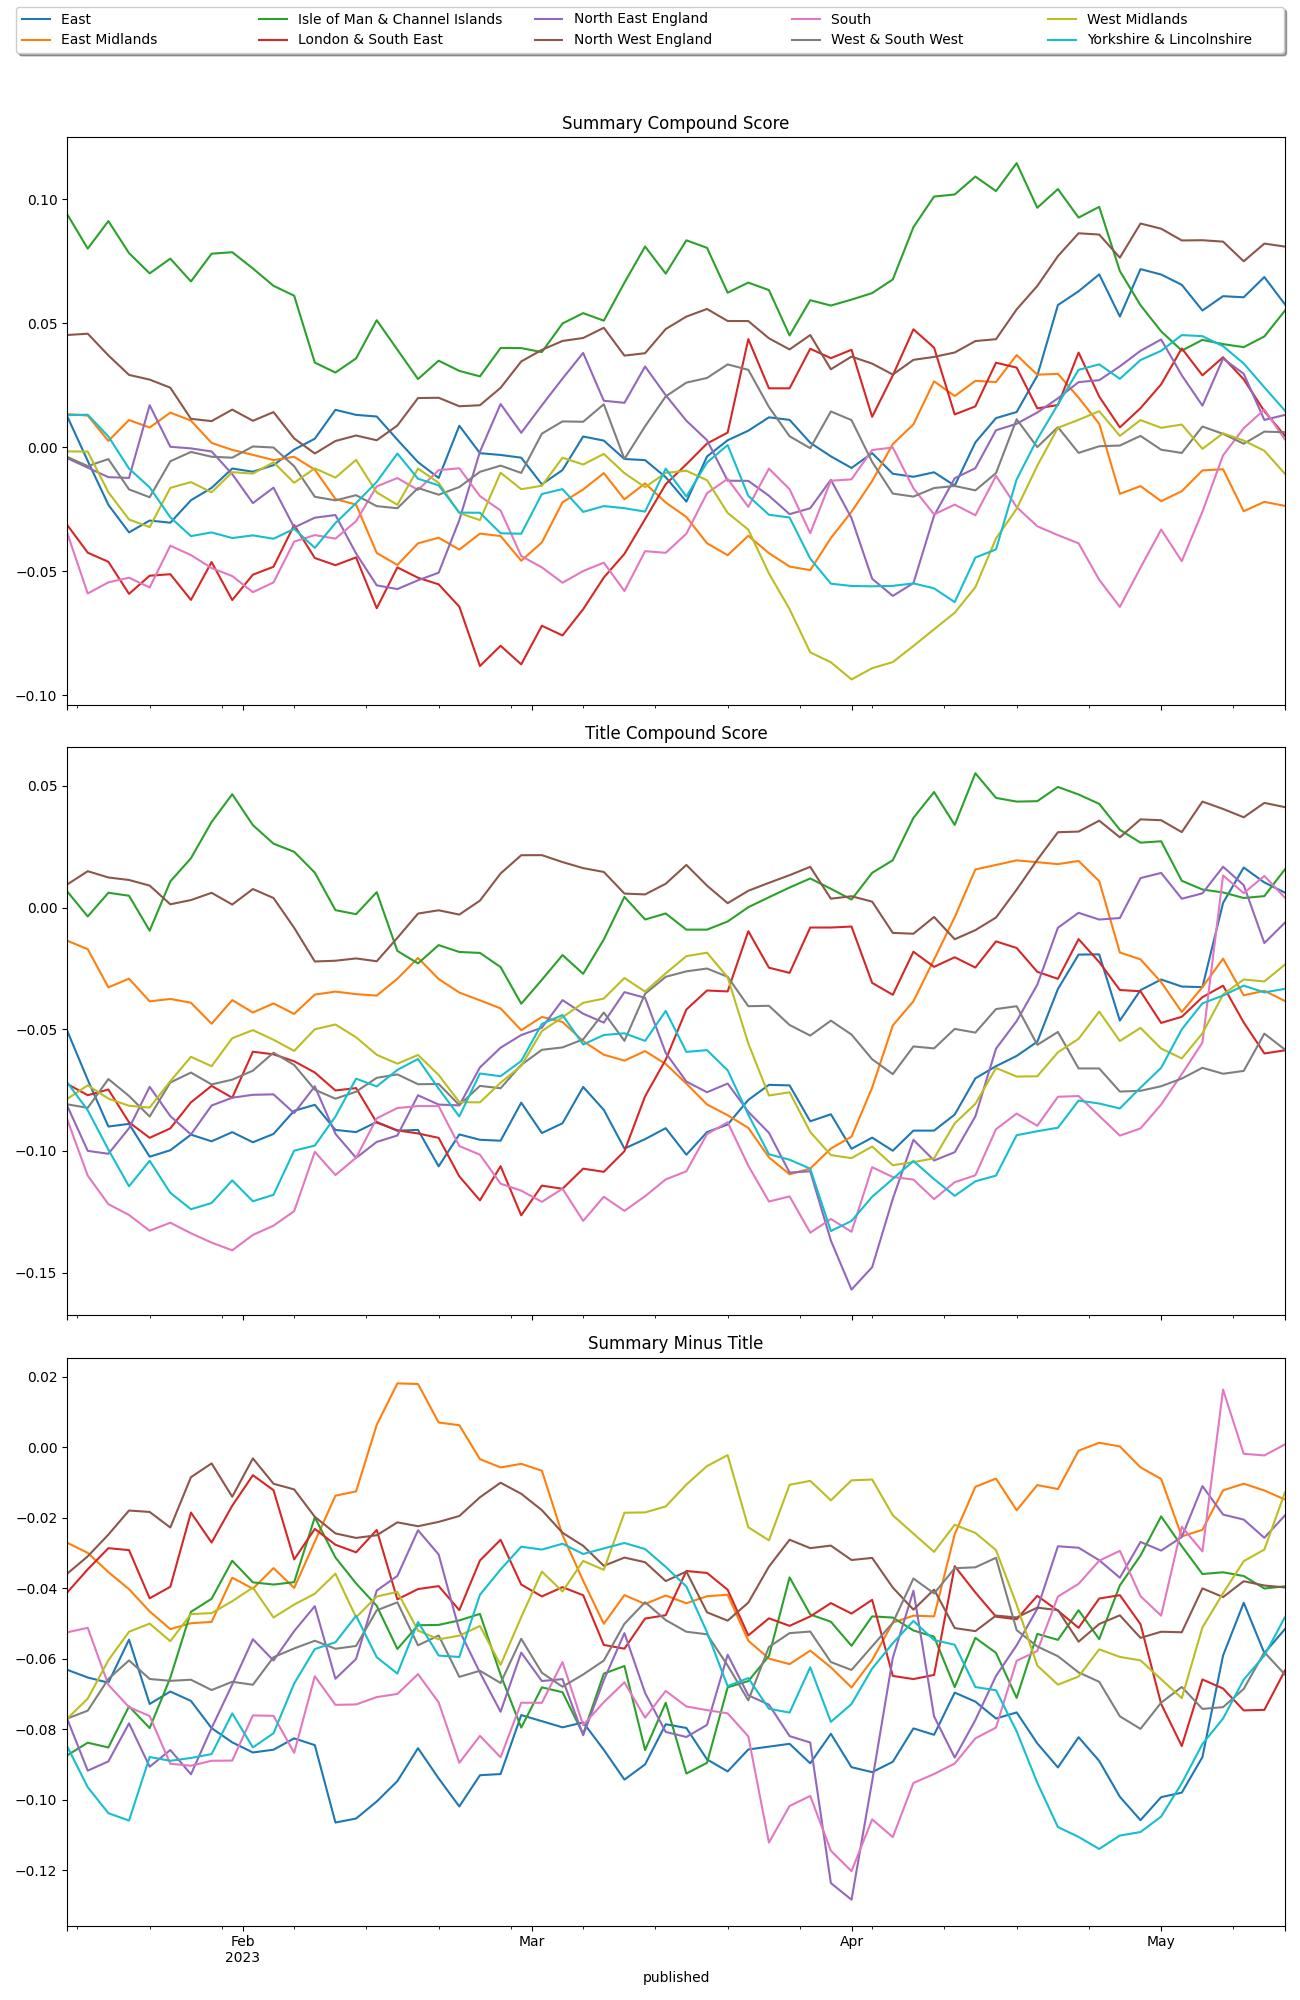
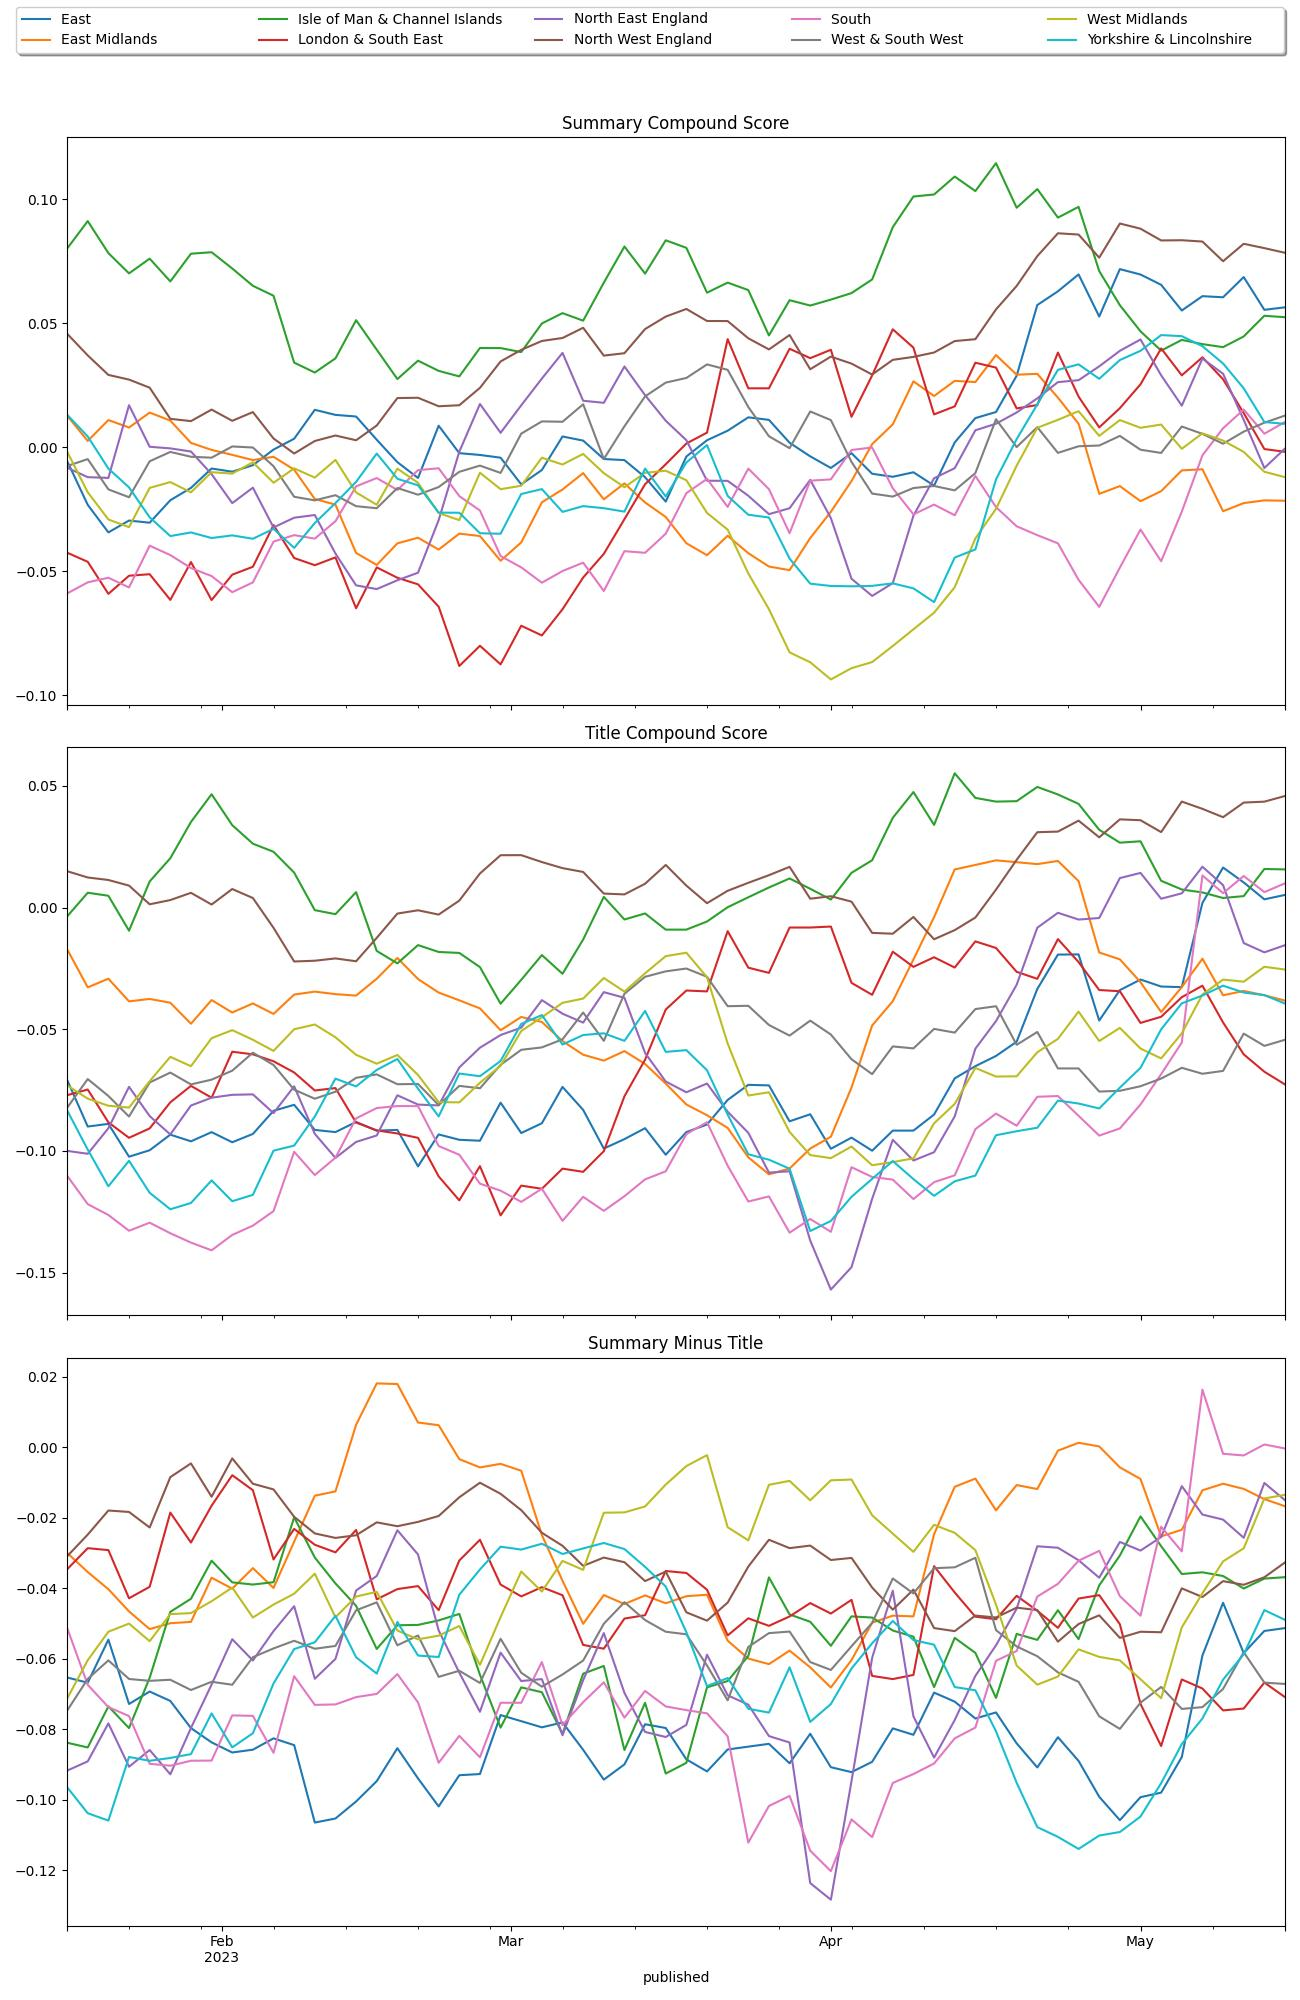
at 2023-05-15 10:43 ran: [Stage: 'complete-basic_report']

diff --git a/reports/complete/latest.md b/reports/complete/latest.md
@@ -1,12 +1,12 @@
-| region                        | published                  | summary                                                                                                                                | title                                                         | url                                      |   summary_compound_score |   title_compound_score |   summary_minus_title |
-|:------------------------------|:---------------------------|:---------------------------------------------------------------------------------------------------------------------------------------|:--------------------------------------------------------------|:-----------------------------------------|-------------------------:|-----------------------:|----------------------:|
-| East                          | 2023-05-14 09:25:17        | Grant Shapps says he always thought Rishi Sunak's five promises would be difficult to stick to.                                        | Government committed to PM's difficult pledges - Shapps       | /news/uk-politics-65588296               |                   0.3818 |                -0.1027 |               -0.4845 |
-| East Midlands                 | 2023-05-14 08:23:10        | The roller skating event will celebrate Giorgia Green's life and raise awareness.                                                      | Skate event for girl who died from deodorant fumes            | /news/uk-england-derbyshire-65544645     |                   0.5719 |                -0.5719 |               -1.1438 |
-| Isle of Man & Channel Islands | 2023-05-14 08:35:54.059000 | A set of eight stamps looks back over the last century of Manx Grand Prix races on the Isle of Man.                                    | Stamps celebrate Manx Grand Prix centenary                    | /news/articles/cjm7ymlmyzko              |                   0.4588 |                 0.7717 |                0.3129 |
-| London & South East           | 2023-05-13 18:49:21        | Kent are left battling for a draw after day three of their County Championship match with Hampshire at Canterbury.                     | Hampshire take control against Kent                           | /sport/cricket/65582589                  |                   0.2023 |                 0      |               -0.2023 |
-| North East England            | 2023-05-14 08:13:49        | A Cambridge University leader says uncertainty over Horizon is hindering recruitment.                                                  | EU research programme links needed says university            | /news/uk-england-cambridgeshire-65563784 |                  -0.34   |                 0      |                0.34   |
-| North West England            | 2023-05-14 08:18:50        | Joe Crean, from Derbyshire, has spent the last 52 years working on the railways.                                                       | Train driver emotional after finishing last shift             | /news/uk-england-derbyshire-65564694     |                   0      |                 0.1531 |                0.1531 |
-| South                         | 2023-05-14 08:13:49        | A Cambridge University leader says uncertainty over Horizon is hindering recruitment.                                                  | EU research programme links needed says university            | /news/uk-england-cambridgeshire-65563784 |                  -0.34   |                 0      |                0.34   |
-| West & South West             | 2023-05-14 08:55:46        | BBC Sport examines English football's first fan-owned club - Exeter City - two decades after supporters first took control.            | How 20 years of fan ownership is helping Exeter 'do it right' | /sport/football/65337104                 |                   0.4404 |                 0.5423 |                0.1019 |
-| West Midlands                 | 2023-05-14 08:13:49        | A Cambridge University leader says uncertainty over Horizon is hindering recruitment.                                                  | EU research programme links needed says university            | /news/uk-england-cambridgeshire-65563784 |                  -0.34   |                 0      |                0.34   |
-| Yorkshire & Lincolnshire      | 2023-05-14 09:07:24        | Police charge a man with assault and entering the field of play after an incident during Leeds' Premier League game against Newcastle. | Police charge man after Howe incident                         | /sport/football/65587692                 |                  -0.34   |                 0      |                0.34   |
+| region                        | published                  | summary                                                                                                                      | title                                              | url                                        |   summary_compound_score |   title_compound_score |   summary_minus_title |
+|:------------------------------|:---------------------------|:-----------------------------------------------------------------------------------------------------------------------------|:---------------------------------------------------|:-------------------------------------------|-------------------------:|-----------------------:|----------------------:|
+| East                          | 2023-05-15 08:28:35        | Police say the driver of the vehicle involved in the collision has been arrested and is in custody.                          | Pedestrian dies after being hit by car in village  | /news/uk-england-beds-bucks-herts-65588712 |                  -0.6808 |                 0      |                0.6808 |
+| East Midlands                 | 2023-05-15 08:20:38        | Police chase a man on a quad bike who is seriously injured after hitting a parked car.                                       | Armed police called to funfair after weapon seen   | /news/uk-england-northamptonshire-65594871 |                  -0.5267 |                -0.296  |                0.2307 |
+| Isle of Man & Channel Islands | 2023-05-15 06:53:51        | New equipment at Springfield is part of a "modernisation of Jersey's sporting facilities".                                   | Refurbished gym in Jersey is reopening to members  | /news/world-europe-jersey-65584007         |                   0      |                 0      |                0      |
+| London & South East           | 2023-05-15 07:02:07.575000 |                                                                                                                              | 'The best-run club in the country'                 | /sport/articles/cldkgkgky7zo               |                   0      |                 0      |                0      |
+| North East England            | 2023-05-15 09:15:33        | Goalkeeper Ben Killip is to leave Hartlepool United when his deal expires, after relegation to the National League.          | Goalkeeper Killip to leave relegated Hartlepool    | /sport/football/65596302                   |                   0.3818 |                -0.0516 |               -0.4334 |
+| North West England            | 2023-05-15 09:24:50        | Residents campaigned after plans were unveiled to scrap the town's volunteer-run ambulance.                                  | Remote market town gets emergency response vehicle | /news/uk-england-cumbria-65570730          |                   0      |                -0.3818 |               -0.3818 |
+| South                         | 2023-05-15 08:52:30        | Jay Payne threw his two children to safety from his top floor flat in Gosport to escape the blaze.                           | Man who saved family in anguish after flats fire   | /news/uk-england-hampshire-65594514        |                   0.6486 |                -0.5423 |               -1.1909 |
+| West & South West             | 2023-05-15 09:27:11        | Cornwall boss Mike Abbot is still aiming to strengthen his side after a chastening 54-10 home loss to Hunslet in League One. | Cornwall hope to strengthen after Hunslet loss     | /sport/rugby-league/65596351               |                   0      |                 0.4404 |                0.4404 |
+| West Midlands                 | 2023-05-15 07:59:59.405000 | A 20-year transport plan for Birmingham, due to be published on Tuesday, seeks to end car dominance.                         | City ring road to become 'green way' in new plans  | /news/articles/cxelgl2lvd2o                |                   0.2023 |                 0      |               -0.2023 |
+| Yorkshire & Lincolnshire      | 2023-05-15 08:22:48.544000 |                                                                                                                              | Leeds condemn online threats against Bamford       | /sport/articles/clm9v5jykz1o               |                   0      |                -0.6597 |               -0.6597 |
